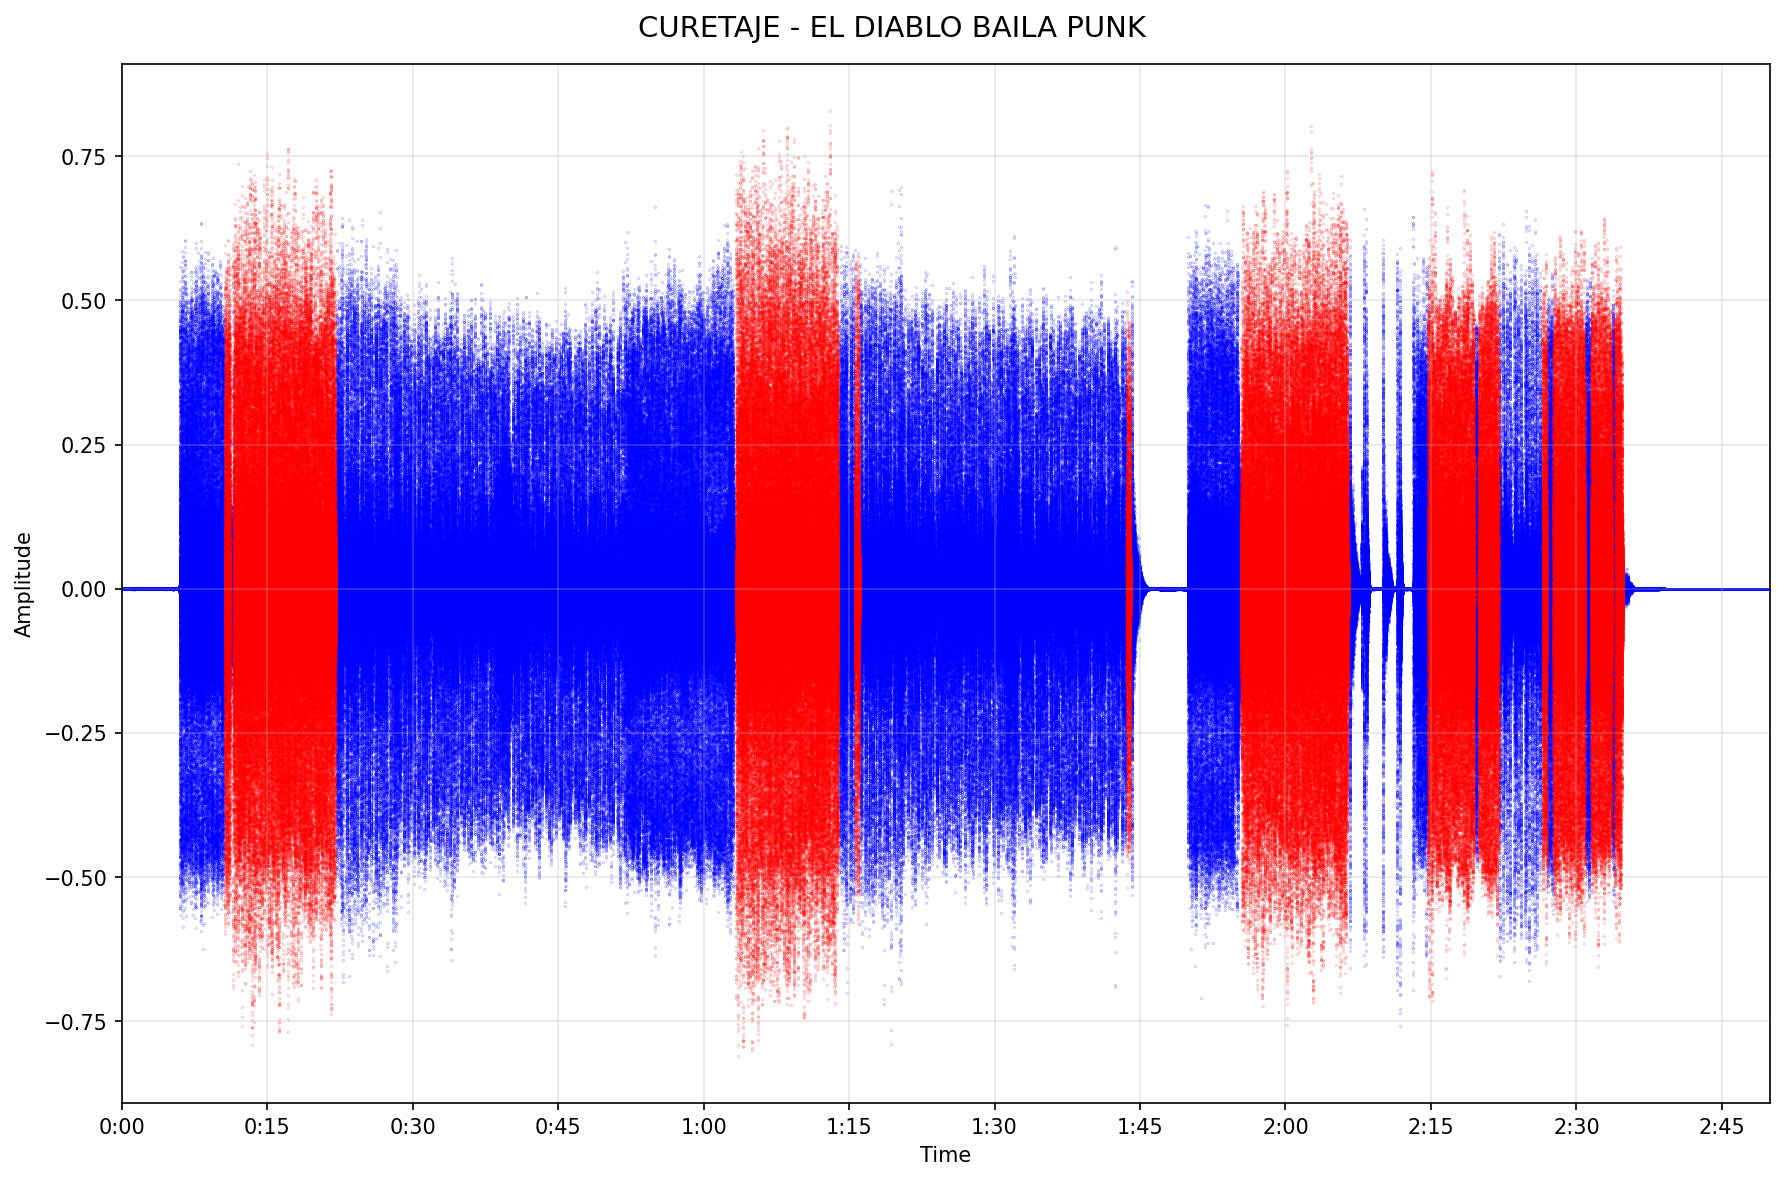
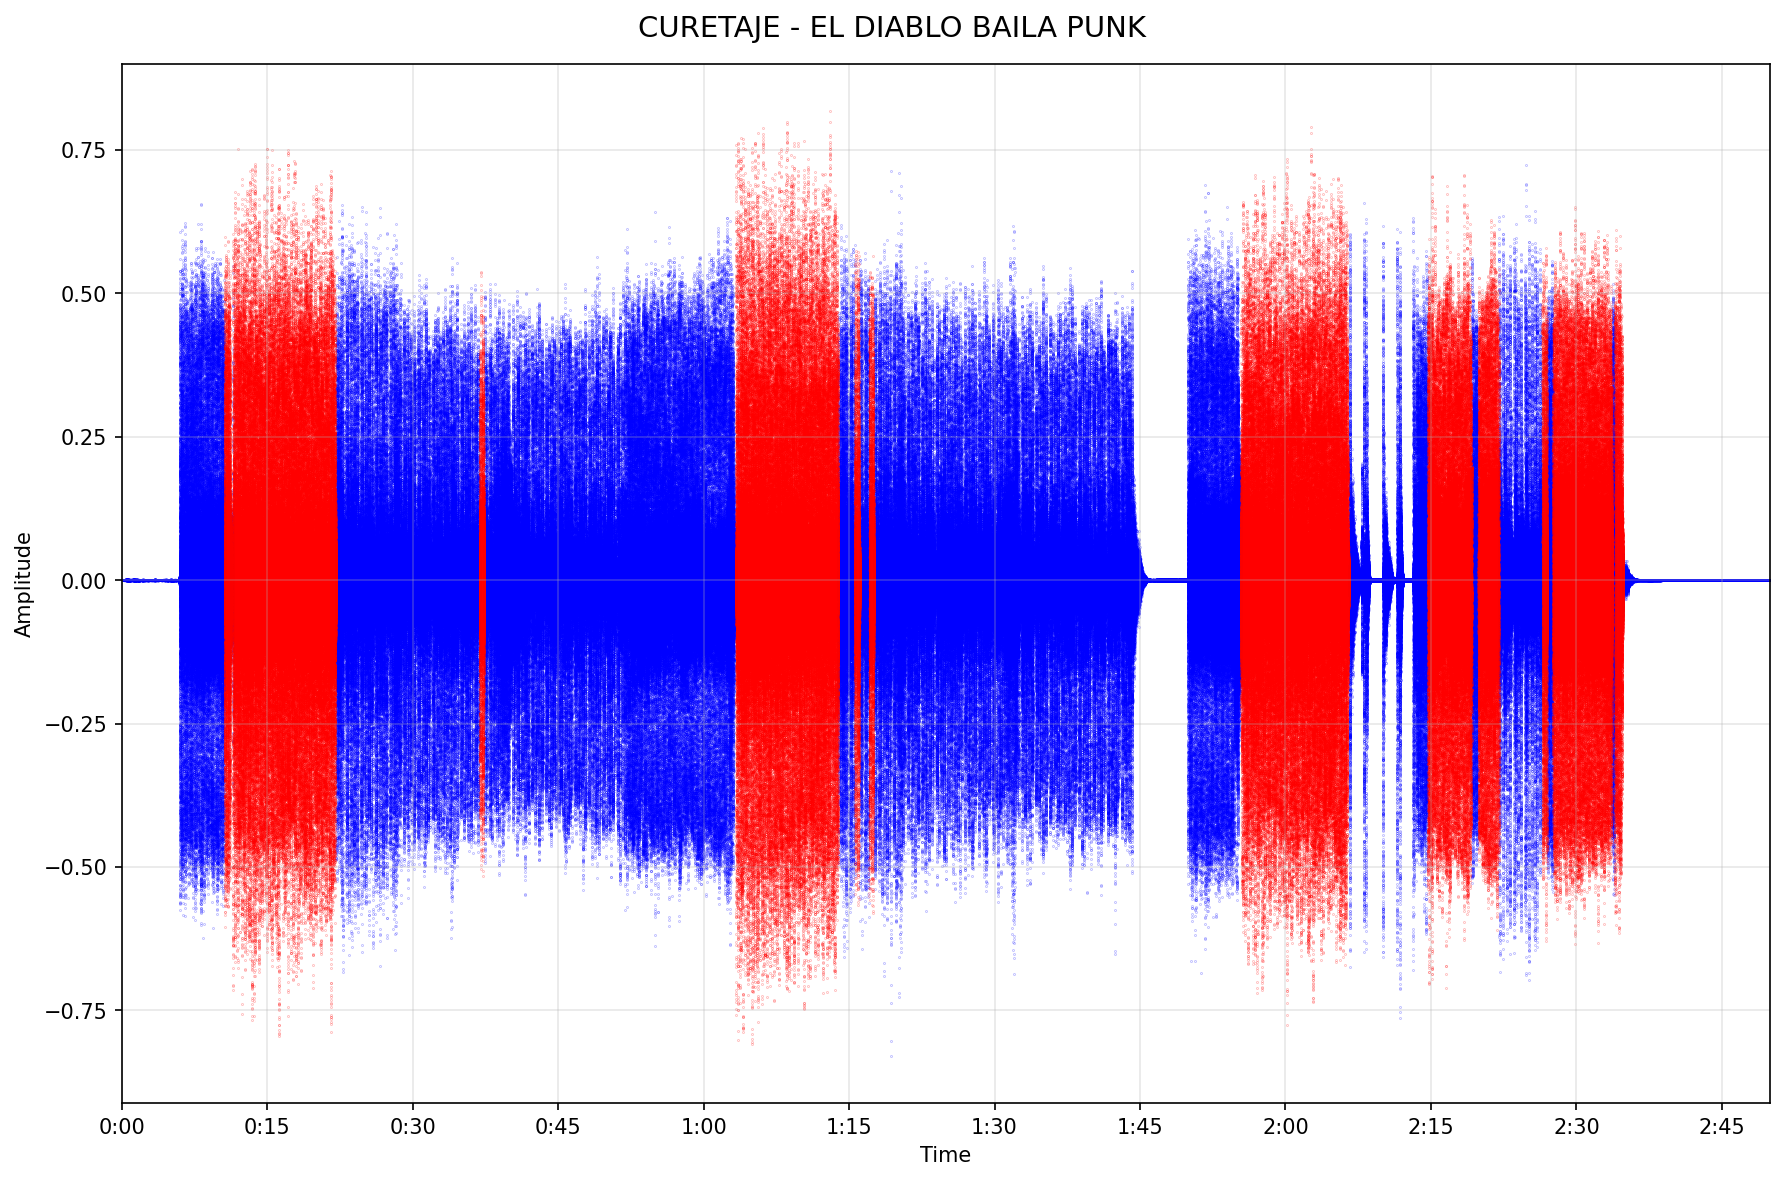
clean up requirements

diff --git a/main.py b/main.py
@@ -2,10 +2,9 @@ from pathlib import Path
 from typing import NamedTuple
 
 import numpy as np
-from numpy.fft import fft
-
 from downloading import download_from_youtube_as_mp3
 from extraction import extract_drums
+from numpy.fft import fft
 from plotting import plot_waveform
 
 
@@ -127,8 +126,8 @@ if __name__ == "__main__":
         file_path = Path(base_dir) / file
     else:
         # Mode 2:  download from YouTube
-        file_url = "https://www.youtube.com/watch?v=K3rDRsEMay0" # DF - Grotesque Impalement
-        #file_url = "https://www.youtube.com/watch?v=0kXrc1DdhHs" # Curetaje - el diablo baila punk
+        # file_url = "https://www.youtube.com/watch?v=K3rDRsEMay0" # DF - Grotesque Impalement
+        file_url = "https://www.youtube.com/watch?v=0kXrc1DdhHs" # Curetaje - el diablo baila punk
         success, file_path = download_from_youtube_as_mp3(file_url)
         if not success or file_path is None:
             raise RuntimeError("Failed to download the YouTube video.")
